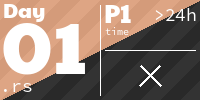
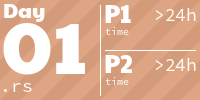
feat(Day 1): Part 2

diff --git a/day_01/src/part2.rs b/day_01/src/part2.rs
@@ -1,6 +1,31 @@
+use crate::part1::Direction::{AntiClockwise, Clockwise};
+use crate::part1::{parse, START_POSITION, UPPER_LIMIT};
+
 #[tracing::instrument]
-pub fn process(_input: &str) -> miette::Result<String> {
-    todo!("day_01 - part 2");
+pub fn process(input: &str) -> miette::Result<i32> {
+    let mut directions = parse(input).unwrap();
+    directions.insert(0, Clockwise(START_POSITION));
+
+    let mut num_clicks = 0;
+
+    directions
+        .iter()
+        .map(|direction| match direction {
+            Clockwise(value) => *value,
+            AntiClockwise(value) => -value,
+        })
+        .reduce(|move_a, move_b| {
+            let new_value = move_a + move_b;
+
+            num_clicks += new_value.abs() / UPPER_LIMIT;
+
+            if new_value <= 0 && move_a != 0 {
+                num_clicks += 1;
+            }
+
+            new_value.rem_euclid(UPPER_LIMIT)
+        });
+    Ok(num_clicks)
 }
 
 #[cfg(test)]
@@ -9,9 +34,51 @@ mod tests {
 
     #[test]
     fn test_process() -> miette::Result<()> {
-        todo!("haven't built test yet");
-        let input = "";
-        assert_eq!("", process(input)?);
+        let input = "L68
+L30
+R48
+L5
+R60
+L55
+L1
+L99
+R14
+L82";
+        assert_eq!(6, process(input)?);
+        Ok(())
+    }
+
+    #[test]
+    fn test_right_click() -> miette::Result<()> {
+        let input = "R1000";
+        assert_eq!(10, process(input)?);
+        Ok(())
+    }
+
+    #[test]
+    fn test_left_click() -> miette::Result<()> {
+        let input = "L1000";
+        assert_eq!(10, process(input)?);
+        Ok(())
+    }
+    #[test]
+    fn test_small_left_click() -> miette::Result<()> {
+        let input = "L50";
+        assert_eq!(1, process(input)?);
+
+        let input = "L50
+L2";
+        assert_eq!(1, process(input)?);
+        Ok(())
+    }
+
+    #[test]
+    fn test_right_left_click() -> miette::Result<()> {
+        let input = "R50";
+        assert_eq!(1, process(input)?);
+
+        let input = "R52";
+        assert_eq!(1, process(input)?);
         Ok(())
     }
 }

diff --git a/day_01/src/part1.rs b/day_01/src/part1.rs
@@ -1,11 +1,11 @@
 use crate::part1::Direction::{AntiClockwise, Clockwise};
 use std::str::FromStr;
 
-const UPPER_LIMIT: i32 = 100;
-const START_POSITION: i32 = 50;
+pub(crate) const UPPER_LIMIT: i32 = 100;
+pub(crate) const START_POSITION: i32 = 50;
 
 #[derive(Debug)]
-pub(self) enum Direction {
+pub(crate) enum Direction {
     Clockwise(i32),
     AntiClockwise(i32),
 }
@@ -33,7 +33,7 @@ impl FromStr for Direction {
 }
 
 #[tracing::instrument]
-fn parse(input: &str) -> Result<Vec<Direction>, ()> {
+pub(crate) fn parse(input: &str) -> Result<Vec<Direction>, ()> {
     let parsed_values = input
         .lines()
         .map(|line| line.parse::<Direction>().unwrap())

diff --git a/README.md b/README.md
@@ -2,7 +2,7 @@
 
 <!-- AOC TILES BEGIN -->
 <h1 align="center">
-  2025 - 1 ⭐ - Rust
+  2025 - 2 ⭐ - Rust
 </h1>
 <a href=".daily_template/src/bin/part1.rs">
   <img src=".aoc_tiles/tiles/2025/01.png" width="161px">
